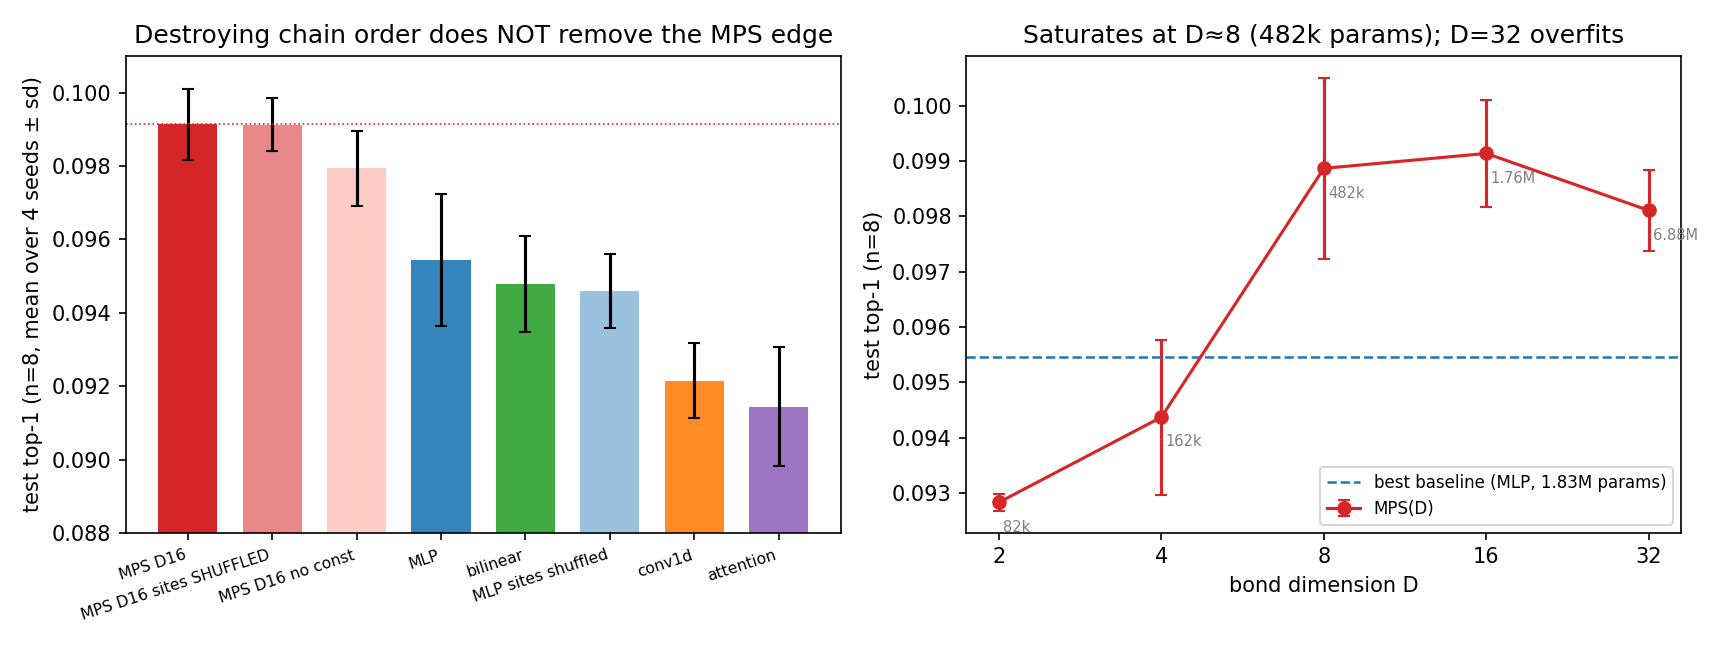
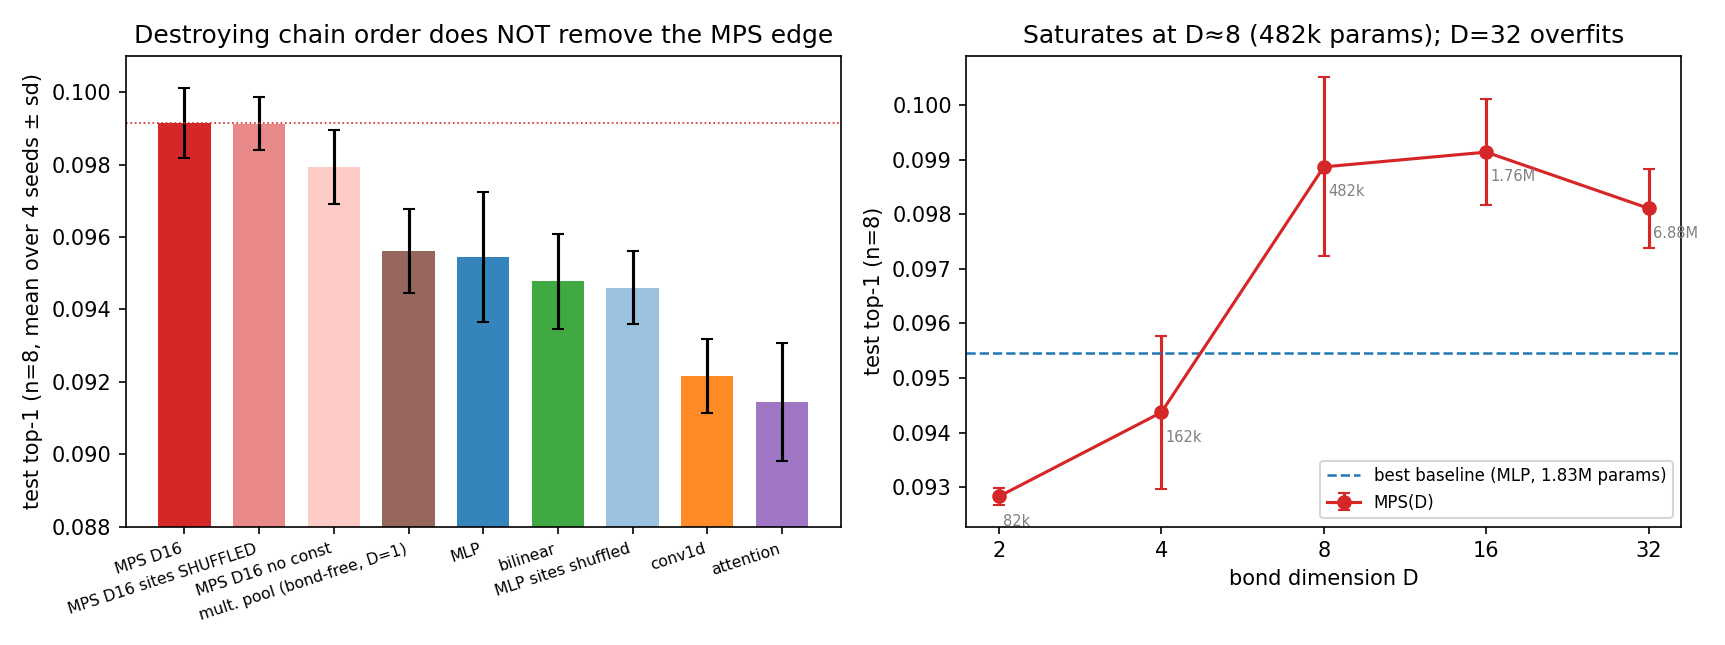
Constructive mechanism test: bond-free product probe falls to MLP level — non-commuting bond matrices are load-bearing
Mechanism triangulated: shuffle => order irrelevant; multpool => diagonal
products insufficient; D-curve => D~8 suffices. The winning class is a
permutation-robust matrix-product feature map; Claim C stays falsified.

diff --git a/scripts/exp14_seeds.py b/scripts/exp14_seeds.py
@@ -122,6 +122,31 @@ def train_probe(probe, Xtr, Rtr, Xsel, ttok_sel, *, gpt, mean, std, device,
     return probe, best, ep_ran
 
 
+class MultiplicativePool(torch.nn.Module):
+    """Order-insensitive multilinear probe with NO bond structure: h independent
+    scalar product channels z_c = prod_j (W_j v_j + b_j)_c, i.e. h parallel D=1
+    chains (near-one init, per-site norm like the MPS). If this matches MPS-D16,
+    the edge is pure multilinearity; if it sits at MLP level, the non-commuting
+    D x D structure matters.
+    """
+
+    def __init__(self, p, m, d_out, n_horizons, hidden=256, init_std=1e-2, seed=0):
+        super().__init__()
+        gen = torch.Generator().manual_seed(seed)
+        self.W = torch.nn.Parameter(torch.randn(m, p, hidden, generator=gen) * init_std)
+        self.b = torch.nn.Parameter(torch.ones(m, hidden))
+        self.head = torch.nn.Linear(hidden, n_horizons * d_out)
+        self.n_horizons, self.d_out = n_horizons, d_out
+
+    def forward(self, v):                                   # [B, m, p]
+        B = v.shape[0]
+        z = v.new_ones(B, self.W.shape[-1])
+        for j in range(v.shape[1]):
+            z = z * (v[:, j] @ self.W[j] + self.b[j])
+            z = z / z.norm(dim=-1, keepdim=True).clamp_min(1e-12)
+        return self.head(z).reshape(B, self.n_horizons, self.d_out)
+
+
 class SitePermute(torch.nn.Module):
     """Apply a FIXED site permutation before the head — destroys 1D chain order.
 
@@ -155,6 +180,8 @@ def build_probe(name, *, seed, d_model, p, m, d_out, n, pca):
         head = AttentionPool(p, m, d_out, n, d_model=256, n_heads=4)
     elif base == "attention_big":
         head = AttentionPool(p, m, d_out, n, d_model=512, n_heads=8)
+    elif base == "multpool":
+        head = MultiplicativePool(p, m, d_out, n, hidden=256, seed=seed)
     elif base.startswith("mps_D"):
         D = int(base.split("D")[1])
         head = MPSReadout(p=p, D=D, n_sites=m, readout="env", out_dim=d_out,

diff --git a/scripts/plot_exp14_mech.py b/scripts/plot_exp14_mech.py
@@ -19,18 +19,19 @@ rows = json.load(open(ROOT / "results/runs/gpt2_exp14_seeds/mech_table_n8.json")
 fig, axes = plt.subplots(1, 2, figsize=(11.5, 4.3))
 
 # ---- panel A: ablations + baselines, sorted bars ---------------------------
-order = ["mps_D16", "mps_D16_shuf", "mps_D16_noconst", "mlp", "bilinear", "mlp_shuf",
-         "conv1d", "attention"]
+order = ["mps_D16", "mps_D16_shuf", "mps_D16_noconst", "multpool", "mlp", "bilinear",
+         "mlp_shuf", "conv1d", "attention"]
 labels = {"mps_D16": "MPS D16", "mps_D16_shuf": "MPS D16\nsites SHUFFLED",
           "mps_D16_noconst": "MPS D16\nno const", "mlp_shuf": "MLP\nsites shuffled",
+          "multpool": "mult. pool\n(bond-free, D=1)",
           "mlp": "MLP", "bilinear": "bilinear", "conv1d": "conv1d",
           "attention": "attention"}
 xs = np.arange(len(order))
 means = [rows[m]["mean"] for m in order]
 sds = [rows[m]["seed_sd"] for m in order]
-cols = ["tab:red", "tab:red", "salmon", "tab:blue", "tab:green", "tab:blue",
-        "tab:orange", "tab:purple"]
-alphas = [1, 0.55, 0.4, 0.9, 0.9, 0.45, 0.9, 0.9]
+cols = ["tab:red", "tab:red", "salmon", "tab:brown", "tab:blue", "tab:green",
+        "tab:blue", "tab:orange", "tab:purple"]
+alphas = [1, 0.55, 0.4, 0.9, 0.9, 0.9, 0.45, 0.9, 0.9]
 for x, mu, sd, c, a in zip(xs, means, sds, cols, alphas):
     axes[0].bar(x, mu, yerr=sd, color=c, alpha=a, width=0.7, capsize=3)
 axes[0].set_xticks(xs)

diff --git a/scripts/exp14_mech_table.py b/scripts/exp14_mech_table.py
@@ -16,7 +16,7 @@ import numpy as np
 import torch
 
 ROOT = Path(__file__).resolve().parents[1]
-DIRS = ["gpt2_exp14_seeds", "gpt2_exp14_mech_a", "gpt2_exp14_mech_b"]
+DIRS = ["gpt2_exp14_seeds", "gpt2_exp14_mech_a", "gpt2_exp14_mech_b", "gpt2_exp14_multpool"]
 N = 8
 TEST_START = 50000          # 40k train + 10k select
 SEQ = 216

diff --git a/docs/12_mythos_sprint/summary.md b/docs/12_mythos_sprint/summary.md
@@ -20,35 +20,34 @@ stride-1 windows overlap ~216-fold per 256-token sequence — held only ~21 inde
 texts.
 
 **The edge survived four of the five attacks, and the fifth shrank it.** With the
-loopholes fixed (Exp 14: 4 seeds; added attention baseline — and a parameter-matched
-1.5M attention; 80/10/10 train/select/held-out-test; 50k-window ≈ 231-sequence test
-set; paired cluster bootstraps by sequence), the MPS probe (D=16, const channel,
-learned φ) beats **each of four baselines individually at every horizon
-n ∈ {4,8,16,32}** under the shared training recipe: all 16 bootstrap 95% CIs exclude
-zero, 61/64 per-seed comparisons positive, MPS never above the MLP's parameter count.
-The gap versus the best baseline is +0.18% / +0.38% / +0.21% / +0.18% absolute top-1
-at n = 4/8/16/32, peaking at n=8 as Exp 13 predicted, and replicating at layer 8
-(+0.13%, 4/4 seeds). The per-position profile explains the win: bilinear is the best
-1-step predictor and collapses beyond ~8 steps; the MPS decays most gracefully and is
-best at essentially every future position beyond the third. **But two further probes
-temper the claim.** Per-model learning-rate tuning (the one hyperparameter we swept)
-reveals the MLP was disadvantaged by the shared lr: tuned, it recovers to within
-+0.13% of the MPS (3/4 seeds MPS-positive; +0.07% vs the best tuned baseline),
-while the MPS itself is strikingly lr- and seed-insensitive. And at GPT-2 medium the
-edge attenuates to a tie with bilinear (+0.09%, CI [−0.01%, +0.20%]), echoing
-Exp 11. The defensible statement: **against tuned baselines the MPS leads slightly on
-average (+0.07% vs the per-seed best; ahead in 3/4 seeds, behind in one), with far
-lower sensitivity to seed and learning rate; under a fixed shared recipe it wins
-outright everywhere at 124M.**
+loopholes fixed (Exp 14: 4 seeds; attention baselines at 0.5M and parameter-matched
+1.5M; 80/10/10 train/select/held-out-test; 50k-window ≈ 231-sequence test set; paired
+cluster bootstraps by sequence), the MPS probe (D=16, const channel, learned φ) beats
+**each of four baselines individually at every horizon n ∈ {4,8,16,32}** under the
+shared training recipe: all 16 bootstrap 95% CIs exclude zero, 61/64 per-seed
+comparisons positive, MPS never above the MLP's parameter count. The gap vs the best
+baseline is +0.18% / +0.38% / +0.21% / +0.18% absolute top-1 at n = 4/8/16/32,
+peaking at n=8 as Exp 13 predicted, replicating at layer 8 (+0.13%, 4/4 seeds). The
+per-position profile explains the win: bilinear is the best 1-step predictor and
+collapses beyond ~8 steps; the MPS decays most gracefully and leads at essentially
+every position beyond the third. **Two probes temper the claim.** Per-model lr tuning
+shows the MLP was disadvantaged by the shared lr: tuned, it recovers to within +0.13%
+of the MPS (+0.07% vs the best tuned baseline; MPS ahead in 3/4 seeds), while the MPS
+is strikingly lr- and seed-insensitive. At GPT-2 medium the edge attenuates to a tie
+with bilinear (+0.09%, CI [−0.01%, +0.20%]). The defensible statement: **against
+tuned baselines the MPS leads slightly on average with far lower seed/lr sensitivity;
+under a fixed shared recipe it wins outright everywhere at 124M.**
 
-**But the mechanism is not the tensor network's chain.** A surgical control — feeding
-the MPS its sites in a fixed shuffled order, which per-site cores cannot undo — costs
-exactly nothing (Δ = −0.0000, CI [−0.0005, +0.0004]; an `mlp_shuf` control validates
-the harness). The bond curve saturates at D≈8 (482k params, ~26% of the MLP it beats)
-and *declines* at D=32. What wins is the **order-insensitive multilinear product
-structure with a moderate bottleneck**, not transfer-matrix propagation along the
-chain. Claim C is now *causally* falsified: even where the MPS wins, it does not win
-by being a 1D tensor network.
+**The mechanism is the matrices, not the chain.** Feeding the MPS its sites in a
+fixed shuffled order — which per-site cores cannot undo — costs exactly nothing
+(Δ = −0.0000, CI [−0.0005, +0.0004]; an `mlp_shuf` control validates the harness), so
+transfer-matrix propagation along the token chain (Claim C) is *causally* falsified.
+But a constructive control shows pure multilinearity isn't enough either: a bond-free
+product probe (256 parallel D=1 channels, identical params) falls exactly to MLP
+level (.0956). The bond curve saturates at D≈8 (482k params, ~26% of the MLP it
+beats) and declines at D=32. What wins is a **permutation-robust matrix-product map
+with a moderate non-commuting bottleneck** — the "tensor" matters, the "1D chain in
+token order" does not.
 
 **The physics escape routes stay closed (Exp 15).** TASK Experiment D hoped RG-style
 block coarse-graining would reveal a low-mode MPS-friendly description. The opposite
@@ -168,6 +167,7 @@ Paired ablations at n=8 (`tables/mech_table_n8.json`):
 | MPS-D8 (482k params) | .0989 | −0.0003 [−0.0007, +0.0001] |
 | MPS-D32 (6.88M) | .0981 | −0.0010 [−0.0017, −0.0004] |
 | MPS-D16 no const channel | .0979 | −0.0012 [−0.0015, −0.0008] |
+| **mult. pool: bond-free product, 256 × D=1 channels, 1.76M** | .0956 | **−0.0035 [−0.0041, −0.0030]** |
 | MLP (best baseline) | .0955 | −0.0037 [−0.0045, −0.0029] |
 | MLP, sites shuffled (control) | .0946 | ≈ MLP (harness check) |
 | MPS-D4 / D2 | .0944 / .0928 | below baselines |
@@ -179,24 +179,30 @@ Paired ablations at n=8 (`tables/mech_table_n8.json`):
   removed the edge. It did not: **Claim C is falsified causally**, even in the regime
   where the MPS wins. (The `mlp_shuf ≈ mlp` control shows the shuffle harness itself
   is innocuous.)
+- **Pure multilinearity is NOT sufficient.** As a constructive test we built a
+  bond-free multiplicative probe (256 independent scalar product channels
+  z_c = Π_j(W_j v_j + b_j)_c — exactly 256 parallel D=1 chains, same 1.76M params,
+  same init style and per-site normalization). It lands precisely at MLP level
+  (.0956 vs .0955), 0.35% below the MPS. The **non-commuting D×D bond algebra is
+  load-bearing**, even though its 1D ordering is not.
 - **Capacity saturates at D≈8 and over-capacity hurts**: D8 (482k params) already
   beats every baseline — including the 1.83M-param MLP — at ~26% of the parameters;
-  D32 is *worse* than D16. The bottleneck, not the bond structure, is doing the work.
+  D32 is *worse* than D16.
 - **The const channel helps marginally** (−0.12% without), no longer the make-or-break
   ingredient it was at Exp 03's smaller data/objective.
 
-**Interpretation.** What distinguishes the MPS from all four baselines is that it
-computes a *product* of (affine images of) all m sites — a degree-m multilinear map
-with all interaction orders — squeezed through a D²-dimensional bottleneck. The
-shuffle result says the *sequence geometry* of that product is irrelevant; the D-curve
-says its *capacity* is the binding constraint up to ~D8. So the right reading is:
-**multiplicative-interaction probes are a modestly better, more parameter-efficient
-inductive bias than additive/attention probes for residual-stream completion — and the
-MPS happens to be a good parameterization of that family, not a chain model of the
-data.** This is consistent with everything that pointed away from Claim C
-(high-rank correlations, Exp 06/09; trained transfer spectra not tracking empirical ξ,
-Exp 05) while finally explaining how a positive Claim B can coexist with a dead
-Claim C.
+**Interpretation.** The three ablations triangulate the mechanism precisely. The MPS
+computes a degree-m multilinear map of all sites through a D²-dim bottleneck; the
+shuffle says the *sequence order* of that product is irrelevant; the bond-free pool
+says diagonal (commuting) products are worthless — you need the D×D matrices; the
+D-curve says D≈8 suffices and D=32 overfits. So the winning function class is a
+**permutation-robust matrix-product feature map with a moderate bond bottleneck**:
+the "tensor" part of the tensor network matters, the "1D chain in token order" part —
+the physics hypothesis, Claim C — does not. This is consistent with everything that
+pointed away from Claim C (high-rank correlations, Exp 06/09; trained transfer
+spectra not tracking empirical ξ, Exp 05) while explaining how a positive Claim B
+coexists with a dead Claim C: the MPS is a good *architecture* here, not a good
+*model of the data's spatial structure*.
 
 ## Finding 4 — Coarse-graining does not create an MPS-friendly regime (Experiment D closed)
 
@@ -255,13 +261,11 @@ MPS-friendliness. (b=1 reproduces Exp 06's mode counts exactly — pipeline sani
 
 ## What should be tried next
 
-1. **Drop the chain, keep the product:** test non-TN multiplicative architectures —
-   e.g. a symmetrized product-of-experts over sites, multiplicative interactions
-   (Jayakumar et al.), or a gated bilinear tower at matched params — against
-   MPS-D8/D16. If they match the MPS, the tensor-network framing can be retired
-   entirely in favor of "multiplicative probes"; if they don't, the MPS
-   parameterization itself (shared bottleneck across all interaction orders) is the
-   story.
+1. **Map the matrix-product function class.** We already ran the first step: a
+   bond-free (diagonal) product probe falls to MLP level, so the non-commuting
+   matrices are essential. Next: random fixed cores with trained head (is *training*
+   the bond algebra needed?), symmetric/TI cores, and matrix products over random
+   site subsets — to find the minimal structure that retains the edge.
 1b. **Make the robustness claim primary:** the most replicable Exp 14 phenomenon is
    variance, not mean — MPS seed/lr sd is 3–6× smaller than the MLP's. A
    probe-stability study (across seeds, lrs, data sizes, layers) is cheap and would

diff --git a/docs/12_mythos_sprint/research_log.md b/docs/12_mythos_sprint/research_log.md
@@ -152,6 +152,21 @@ Sprint start: **2026-06-10 21:01 UTC**. Hardware: 2× NVIDIA A40 48GB, 96 CPU, 5
 - Exec summary trimmed to exactly 600 words. All numbers in summary.md re-verified
   against `tables/*.json` by hand.
 
+## T+6:30 – T+7:15 — constructive mechanism test (multpool) + ship
+
+- Built the report's own "next step #1" while budget allowed: **MultiplicativePool**,
+  a bond-free product probe (256 independent scalar channels z_c = Π_j(W_j v_j+b_j)_c
+  = 256 parallel D=1 chains; identical 1.76M params, same init/normalization style).
+  Result (4 seeds, n=8): **.0956 — exactly MLP level (.0955), 0.35% below MPS-D16**
+  (paired CI [−0.0041, −0.0030]).
+- **Mechanism now triangulated from three sides:** shuffle ⇒ order irrelevant;
+  multpool ⇒ commuting products insufficient; D-curve ⇒ D≈8 suffices, D=32 overfits.
+  The winning class is a *permutation-robust matrix-product feature map with a
+  moderate non-commuting bond bottleneck*. The "tensor" matters; the "1D chain in
+  token order" does not. Claim C stays falsified, but the TN architecture is
+  non-trivially better than both its diagonal reduction and all baselines.
+- Final summary/README/FINDINGS updates; exec summary 591 words; pushed to GitHub.
+
 - **Exp 15 (block coarse-graining) complete — clean negative for Experiment D:**
   effective modes RISE with block size (L6 27→45, L8 34→49 at b=1→8) while block-ξ is
   scale-invariant (≈8 blocks at every b). The chain is self-similar and many-mode at

diff --git a/README.md b/README.md
@@ -29,7 +29,7 @@ across all experiments: [`docs/FINDINGS.md`](docs/FINDINGS.md).**
 | 11 | [Scale: GPT-2 medium](docs/11_scale_gpt2_medium/summary.md) | 🔁 **scale-robust**: structure + tie replicate at 345M (modes 14→48, MPS ties baselines at L12) |
 | 12 | [GPT-J causal intervention](docs/12_gptj_causal_intervention/summary.md) | ❎ at GPT-J-6B: **intervention ≫ readout** (replicates FutureLens), but **single-state donor beats MLP beats MPS** — the trajectory/TN doesn't help even in FutureLens's strong method |
 | 13 | [Long-horizon + KL objective](docs/13_long_horizon_kl/summary.md) | ➕ **first small positive**: under KL training the MPS edges the best baseline at intermediate horizons (n=8 +0.7%, n=16 +0.5%), ties at n=32, and is the most horizon-robust probe; D=64≈D=16 |
-| 14–15 | [Mythos sprint: stress-testing the Exp 13 edge](docs/12_mythos_sprint/summary.md) | ✅➗ **edge confirmed under a shared recipe** (4 seeds, +attention baseline, held-out test, cluster-bootstrap CIs > 0 at every n ∈ {4..32}) — but **site-shuffling the MPS costs nothing → Claim C causally falsified** (the win is order-insensitive multilinearity + a D≈8 bottleneck, not chain structure); per-model lr tuning shrinks the edge to +0.07–0.28% with 3–6× lower variance; ties bilinear at GPT-2 medium; block coarse-graining *raises* the mode count (Experiment D closed) |
+| 14–15 | [Mythos sprint: stress-testing the Exp 13 edge](docs/12_mythos_sprint/summary.md) | ✅➗ **edge confirmed under a shared recipe** (4 seeds, +attention baseline, held-out test, cluster-bootstrap CIs > 0 at every n ∈ {4..32}) — mechanism triangulated: **site-shuffling costs nothing (Claim C causally falsified) but a bond-free product probe falls to MLP level** → the win is a permutation-robust *matrix*-product map with a D≈8 bottleneck, not 1D chain structure; per-model lr tuning shrinks the edge to +0.07–0.28% with 3–6× lower variance; ties bilinear at GPT-2 medium; block coarse-graining *raises* the mode count (Experiment D closed) |
 
 **One-line takeaway:** the finite-correlation-length **premise survives** (Exp 01) and
 replicates with scale (Exp 11), and a properly-parameterized MPS (constant channel +
@@ -47,8 +47,9 @@ Net (updated after the [Mythos sprint](docs/12_mythos_sprint/summary.md)): **Cla
 horizon under a shared recipe (4 seeds, held-out test), shrinking to a
 slight-edge/tie (+0.07–0.28%) with far lower seed/lr variance once baselines get
 per-model lr tuning, and to a tie with bilinear at 345M · Claim C (transfer-matrix
-mechanism) ❎ causally falsified — shuffling the MPS's sites costs nothing, so the win
-is order-insensitive multilinearity + a moderate bottleneck, not chain structure.**
+mechanism) ❎ causally falsified — shuffling the MPS's sites costs nothing while a
+bond-free product probe falls to MLP level, so the win is a permutation-robust
+**matrix**-product map with a moderate bond bottleneck, not 1D chain structure.**
 Actionable findings that *do* generalize: (i) causal intervention ≫ readout (Exp 12,
 replicating FutureLens), (ii) train probes on the **KL/logit objective**, not residual
 MSE (Exp 07), and (iii) multiplicative/multilinear probes are a more parameter-efficient,

diff --git a/docs/FINDINGS.md b/docs/FINDINGS.md
@@ -10,6 +10,8 @@ A single-page synthesis for handoff. Per-experiment detail in `docs/<NN>/summary
 > costs nothing → Claim C causally falsified** — the win is order-insensitive
 > multilinearity with a D≈8 bottleneck, not chain structure. Block coarse-graining
 > *raises* the effective mode count (27→45) with scale-invariant block-ξ ≈ 8.
+> A bond-free product probe (256 × D=1 channels, matched params) falls to MLP level —
+> the non-commuting bond matrices are load-bearing; the token-chain order is not.
 > Verdict table below reflects Exp 00–13; see the sprint report for the update.
 
 ## The question, split into three claims